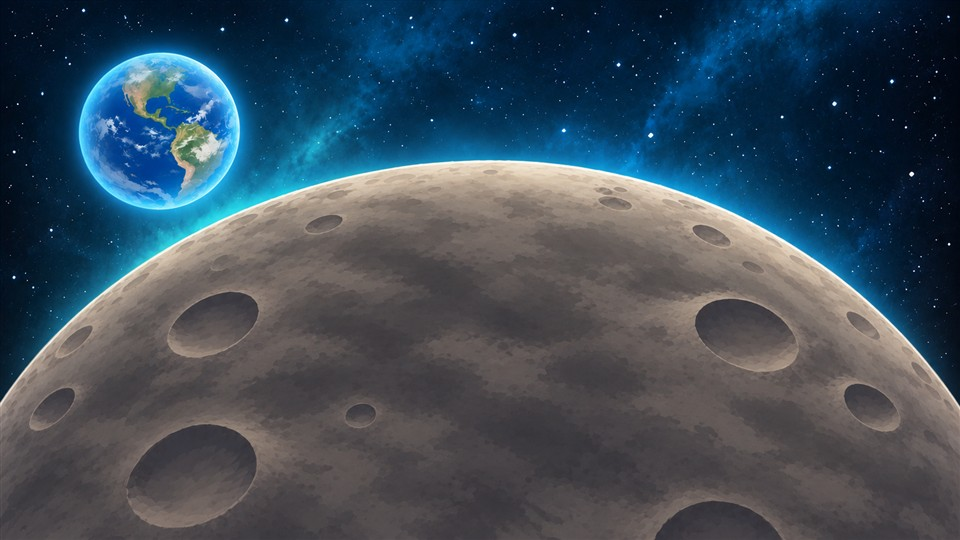
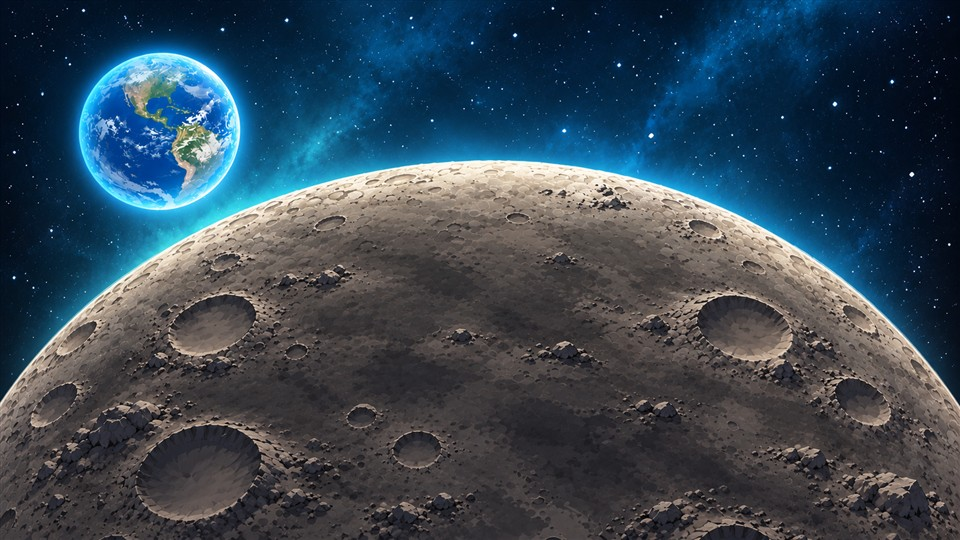
fix: publish selected ZEP lunar map

diff --git a/apps/zep-studio/genesis-assets.js b/apps/zep-studio/genesis-assets.js
@@ -37,8 +37,8 @@ window.GENESIS_ASSETS = [
     title: '달 표면·지구 전망', subtitle: '달의 큰 반원과 지구가 보이는 넓은 ZEP 야외 맵',
     thumbnail: 'assets/genesis/thumbs/genesis-moon-surface-earth.jpg', background: 'assets/genesis/genesis-moon-surface-earth.png',
     editorUrl: 'index.html?genesis=moon-surface-earth', size: '1672 × 941', layers: '아랫배경 1장', tags: ['달 표면', '지구', '에어록', '야외 탐사'],
-    description: '보내주신 ZEP 달 맵처럼 화면 아래쪽에는 캐릭터가 돌아다닐 수 있는 거대한 반원형 달 표면을, 왼쪽 우주에는 푸르게 빛나는 지구를 배치했습니다. 회갈색의 부드러운 표면과 큼직한 분화구를 사용해 차분하고 입체적인 ZEP형 2D 게임 배경으로 만들었습니다.',
-    prompt: '가로 16:9 ZEP용 2D 야외 게임 맵. 화면 아래쪽과 중앙에는 위에서 비스듬히 내려다본 거대한 반원형 달 표면이 넓게 펼쳐지고, 왼쪽 상단 우주에는 푸르게 빛나는 지구가 보인다. 실제 ZEP 달 맵처럼 차분한 회갈색 표면, 단순화된 큼직한 분화구, 부드러운 명암과 은은한 청록색 우주광, 넓고 정돈된 캐릭터 이동 공간. 사진 같은 자갈·과도한 세부 묘사 없음. 1인칭 시점·복도·출구 프레임·인물·우주인·우주선·차량·오브젝트·UI·문자·로고 없음.'
+    description: '보내주신 ZEP 달 맵처럼 화면 아래쪽에는 캐릭터가 돌아다닐 수 있는 거대한 반원형 달 표면을, 왼쪽 우주에는 푸르게 빛나는 지구를 배치했습니다. 회갈색의 입체적인 달 지형과 선명한 분화구, 은은한 청록색 우주광을 사용한 ZEP형 야외 게임 배경입니다.',
+    prompt: '가로 16:9 ZEP용 2D 야외 게임 맵. 화면 아래쪽과 중앙에는 위에서 비스듬히 내려다본 거대한 반원형 달 표면이 넓게 펼쳐지고, 왼쪽 상단 우주에는 푸르게 빛나는 지구가 보인다. 실제 ZEP 달 맵처럼 회갈색의 입체적인 달 지형, 선명하지만 일러스트풍인 분화구와 암석, 부드러운 명암, 은은한 청록색 우주광, 넓은 캐릭터 이동 공간. 1인칭 시점·복도·출구 프레임·인물·우주인·우주선·차량·오브젝트·UI·문자·로고 없음.'
   },
   {
     id: 'GEN-MAP-001', slug: 'space-corridor', category: 'map', categoryLabel: '맵 세트',
